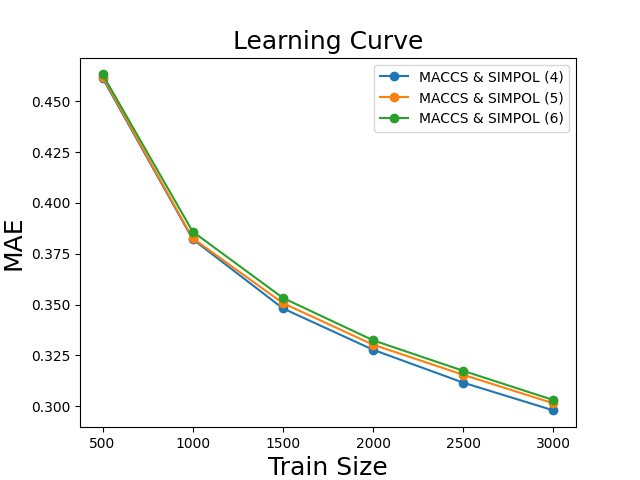
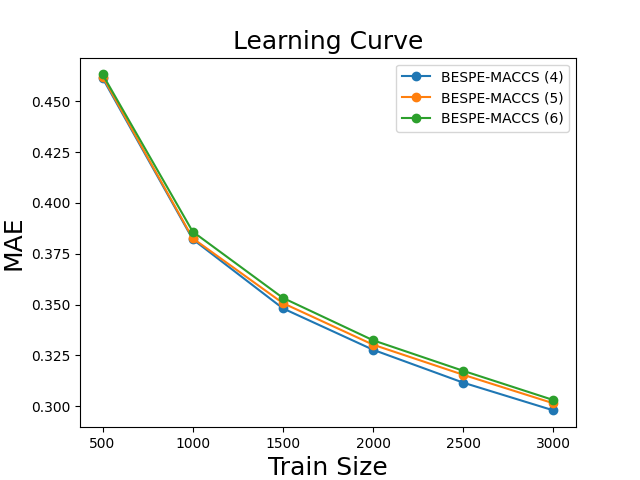
plotting changes

Changed region(s): [[0.5938, 0.125, 0.875, 0.2812]]

diff --git a/CODE_2/data/unused_keys_geckoq.tex b/CODE_2/data/unused_keys_geckoq.tex
@@ -1,0 +1,74 @@
+\begin{tabular}{ll}
+\toprule
+ & Question \\
+key &  \\
+\midrule
+0 &  empty key \\
+1 &  Are there isotopes  \\
+2 &  Is there an atom with an atomic number above 103?   \\
+3 &  Are there atoms belonging to groups IVa, Va, Via, rows 4-6?  \\
+4 &  Is there an actinide in the molecule?   \\
+5 &  Does the molecule contain atoms from group IIIB or IVB?  \\
+6 &  Does the molecule contain lanthanides?  \\
+7 &  Does the molecule contain atoms from group VB, VIB or VIIB?  \\
+8 &  Is there a heteroatom at a 3 bond distance from a ring fragment?   \\
+9 &  Is there an atom from Group VIII?  \\
+10 &  Is there an atom from Group IIa?  \\
+12 &  Is there an atom from Group IB, IIB?  \\
+13 &  Does the molecule contain a hydroxylamine-derivative?  \\
+14 &  Does the molecule have a disulfide bond?   \\
+17 &  Does the molecule have 2 triplebonded carbons?   \\
+18 &  Is there an atom from Group VIII?  \\
+20 &  Is there an silicon atom?  \\
+25 &  Does the molecule contain an methanetriamine? FRAGMENT GROUP  \\
+26 &  Is there a double-bonded carbon that has three ring bond?   \\
+27 &  Is there an iodine atom?  \\
+29 &  Is there an phosphor atom?  \\
+30 &  Is there a heteroatom at bonded to four atoms three of which are carbons?   \\
+31 &  Does the molecule have any heteroatom bonded to a halogen   \\
+32 &  Does the molecule have a aminothiomethane group?   \\
+33 &  Is there any bond between nitrogen and sulphur?   \\
+35 &  Is there alkali metal?  \\
+36 &  Is there a sulphur containing heterocycle?  \\
+37 &  Does the molecule have a diaminocarbinol group?   \\
+38 &  Does the molecule have a diaminoethyl group?   \\
+39 &  Is there a sulphur atom bonded to three oxygens?   \\
+40 &  Does the molecule have a thioperoxide (single bond between a sulphur and oxygen atom)?  \\
+41 &  Does the molecule have a cyano group?   \\
+42 &  Is there an flourine atom?  \\
+44 &  Are there any atoms other than H, C, N, O, Si, P, S, F, Cl, Br, and I?  \\
+46 &  Is there a bromine atom?   \\
+47 &  Is there sulphur separated by two bonds to nitrogen?   \\
+51 &  Is there a carbon bonded to sulphur to an oxygen?   \\
+52 &  Are there two nitrogens bonded together?   \\
+55 &  Is there a sulphur bonded to two oxygens?   \\
+58 &  Is there a sulphur atom bonded to two heteroatoms?   \\
+59 &  Is the molecule lacking sulphur atoms?   \\
+60 &  Does the molecule contain a double bond between a sulphur and oxygen atom?   \\
+61 &  Is there a sulphur atom bonded to three atoms?   \\
+62 &  Are there two rings separated by a bond?   \\
+64 &  Is there a carbon connected to an atom in a ring?   \\
+65 &  Is there an aromatic nitrogen or carbon?   \\
+67 &  Is there a heteroatom bonded to sulphur atom?   \\
+68 &  Are there two bonded heteroatoms, both bonded to a hydrogen atom?  \\
+73 &  Does the molecule have a double bonded sulphur?   \\
+75 &  Is there a nitrogen in a ring that is connected to an atom outside the ring?   \\
+77 &  Are there two nitrogens bonded to the same atom?   \\
+78 &  Is there a nitrogen double bonded to a carbon?  \\
+81 &  Is there an atom with three bonds, one of which is connected to a sulphur atom?   \\
+84 &  Does the molecule have a primary amine?   \\
+85 &  Is there a nitrogen bonded to three carbons?   \\
+86 &  Are there two methylene groups bonded to the same heteroatom?   \\
+87 &  Is there a halide bonded to a ring?   \\
+88 &  Is there a sulphur atom?   \\
+93 &  Is there a heteroatom bonded to a methyl group?   \\
+100 &  Is there a methylene bridge directly connected to a nitrogen atom?   \\
+103 &  Is there a chlorine atom?   \\
+107 &  Is there and atom with three bonds, one of which is to a halogen?   \\
+121 &  Is there a nitrogen containing ring?   \\
+125 &  Is there more than one aromatic ring?   \\
+134 &  Is there a halogen atom?  \\
+151 &  Is there a nitrogen bonded to at least one hydrogen?   \\
+166 &  Does the molecule have more than one fragments?  \\
+\bottomrule
+\end{tabular}

diff --git a/CODE_2/results_preprocessing.py b/CODE_2/results_preprocessing.py
@@ -123,15 +123,23 @@ def main():
         fig, ax = plt.subplots()
         data = pd.read_csv(f'data/KRR_output/maccs only/results/mean_MACCS_{target}.csv')
         ax.plot(data['Train_sizes'], data['Test_MAE'], marker='o')
+        min_val = 1
+        max_val = 0
         for folder in folders[0:5]:
             filepath = path.relpath(f'data/KRR_output/{folder}/results')
             input_file = path.join(filepath,\
                                 f'mean_MACCS_with_simpol_{target}.csv')
             data = pd.read_csv(input_file)
             ax.plot(data['Train_sizes'], data['Test_MAE'], marker='o')
-        legends = ['MACCS fingerprint', 'SIMPOL fingerprint', 'MACCS & SIMPOL (1)', \
-                'MACCS & SIMPOL (2)', 'MACCS & SIMPOL (3)', 'MACCS & SIMPOL (4)']
-        ax.legend(legends)  
+            max_val = max(np.max(data['Test_MAE'].values), max_val)
+            min_val = min(np.min(data['Test_MAE'].values), min_val)
+        min_val -= 0.05
+        max_val += 0.1
+        plt.grid(True, axis='y', linestyle='--')
+        legends = ['MACCS only', 'BESPE (6) only', 'BESPE-MACCS (1)', \
+                'BESPE-MACCS (2)', 'BESPE-MACCS (3)', 'BESPE-MACCS (4)']
+        ax.legend(legends)
+        plt.ylim([min_val, max_val])
         ax.set_xlabel('Train Size', fontsize=18)
         ax.set_ylabel('MAE', fontsize=18)
         plt.title('Learning Curve', fontsize=18)
@@ -147,7 +155,7 @@ def main():
                                 f'mean_MACCS_with_simpol_{target}.csv')
             data = pd.read_csv(input_file)
             ax.plot(data['Train_sizes'], data['Test_MAE'], marker='o')
-        legends = ['MACCS & SIMPOL (4)', 'MACCS & SIMPOL (5)', 'MACCS & SIMPOL (6)']
+        legends = ['BESPE-MACCS (4)', 'BESPE-MACCS (5)', 'BESPE-MACCS (6)']
         ax.legend(legends)  
         ax.set_xlabel('Train Size', fontsize=18)
         ax.set_ylabel('MAE', fontsize=18)
@@ -161,24 +169,30 @@ def main():
         folders_geckoq = [
             'simpol with encodings',\
             'maccs and simpol with multiple groups and carbon numbers', \
-            'maccs and norings simpol with binary encodings', \
-            'maccs and norings simpol with binary encodings and four plus groups', \
-            'maccs and simpol final model']
+            'maccs and norings simpol with binary encodings']
     # Plot learning curve       
     fig, ax = plt.subplots()
     data = pd.read_csv(f'data/KRR_output/maccs only/results/mean_MACCS_geckoq_log_p_sat.csv')
     ax.plot(data['Train_sizes'], data['Test_MAE'], marker='o')
+    min_val = 1
+    max_val = 0
     for folder in folders_geckoq:
         filepath = path.relpath(f'data/KRR_output/{folder}/results')
         input_file = path.join(filepath,\
                             f'mean_MACCS_with_simpol_geckoq_log_p_sat.csv')
         data = pd.read_csv(input_file)
         ax.plot(data['Train_sizes'], data['Test_MAE'], marker='o')
-    legends = ['MACCS fingerprint', 'SIMPOL fingerprint', 'MACCS & SIMPOL (3)',
-            'MACCS & SIMPOL (4)', 'MACCS & SIMPOL (5)', 'MACCS & SIMPOL (6)']
+        max_val = max(np.max(data['Test_MAE'].values), max_val)
+        min_val = min(np.min(data['Test_MAE'].values), min_val)
+    min_val -= 0.1
+    max_val += 0.45
+    legends = ['MACCS only', 'BESPE (6) only', 'BESPE-MACCS (3)',
+            'BESPE-MACCS (4)']
     ax.legend(legends)  
     ax.set_xlabel('Train Size', fontsize=18)
     ax.set_ylabel('MAE', fontsize=18)
+    plt.grid(True, axis='y', linestyle='--')
+    plt.ylim([min_val, max_val])
     plt.title('Learning Curve', fontsize=18)
     plt.close()
     outpath = path.relpath(f'data/plots/final')

diff --git a/CODE_2/SMARTSpatts.tex b/CODE_2/SMARTSpatts.tex
@@ -1,0 +1,46 @@
+\begin{tabular}{ll}
+\toprule
+Pattern name & SMARTS pattern \\
+\midrule
+zeroeth group & eval 1 \\
+amine, primary & [C][NX3;H2;!\$(NC=O)]([H])[H] \\
+amine, secondary & [C][NX3;H;!\$(NC=O)]([C])[H] \\
+amine, tertiary & [C][NX3;H0;!\$(NC=O);!\$(N=O)]([C])[C] \\
+alkane CH & [CX4][H] \\
+alkene CH & [CX3;\$(C=C)][H] \\
+aromatic CH & [c][H] \\
+carbonyl & [\#6,\#1][CX3](=O)[\#6,\#1] \\
+hydroxyl (alkyl) & [C;!\$(C=O)][OX2H][H] \\
+carboxylic acid & [CX3](=O)[OX2H][H] \\
+ester, all & [CX3H1,CX3](=O)[OX2H0][\#6] \\
+ester & {ester, all}-{nitroester} \\
+ether & [OD2]([C;!R;!\$(C=O)])[C;!R;!\$(C=O)] \\
+peroxide & [\#6][OD2][OD2,OD1][\#6] \\
+nitro & [\#6][\$([NX3](=O)=O),\$([NX3+](=O)[O-])](~[O])(~[O]) \\
+aromatic hydroxyl & [c;!\$(C=O)][OX2H][H] \\
+hydroperoxide & [\#6;!\$(C=O)][OD2][OX2H,OD1][\#1] \\
+amide & [CX3](=O)[NX3;!\$(N=O)]([\#6,\#1])[\#6,\#1] \\
+nitrate & [\#6][O][NX3;\$([NX3](=[OX1])(=[OX1])O),\$([NX3+]([OX1-])(=[OX1])O)](~[O])(~[O]) \\
+organosulfate & [\#6][O][SX4;\$([SX4](=O)(=O)(O)O),\$([SX4+2]([O-])([O-])(O)O)](~[O])(~[O])(~[O]) \\
+carbonylperoxynitrate & [C](=O)OO[N](~O)~[O] \\
+ketone & [CX3;\$(C([\#6])(=[O])[\#6])](=[O;!\$([O][O])]) \\
+aldehyde & [CX3;\$(C([\#6,\#1])(=[O])[\#6,\#1])]([\#6,\#1])(=[O;!\$([O][O])])[H] \\
+amide, primary & [CX3;\$(C(=[O])[NX3;!\$(N=O)])](=[O])[N]([\#1])[\#1] \\
+amide, secondary & [CX3;\$(C(=[O])[NX3;!\$(N=O)]([\#6])[\#1])](=[O])[N][\#1] \\
+amide, tertiary & [CX3;\$(C(=[O])[NX3;!\$(N=O)]([\#6])[\#6])](=[O])[N] \\
+carbonylperoxyacid & C(=O)O[O][H] \\
+peroxy nitrate & [\#6][O;!\$(OOC(=O))][O;!\$(OOC(=O))][N](~O)~[O] \\
+carbon number & [\#6] \\
+ether, aromatic & c~[O,o]~[c,C\&!\$(C=O)] \\
+ether (alicyclic) & [OD2;R]([C;!\$(C=O);R])[C;!\$(C=O);R] \\
+amine, aromatic & [N;!\$(NC=O);!\$(N=O);\$(Na)] \\
+nitroester & [\#6][OX2H0][CX3,CX3H1](=O)[C;\$(C[N](~[O])~[O]),\$(CC[N](~[O])~[O]),\$(CCC[N](~[O])~[O]),\$(CCCC[N](~[O])~[O]),\$(CCCCC[N](~[O])~[O])] \\
+nitrophenol & userdef.count_nitrophenols(molecule,'{aromatic hydroxyl},'{nitro}) \\
+C=C-C=O in non-aromatic ring & [\$(C=CC=O);A;R] \\
+C=C (non-aromatic) & C=C \\
+non-aromatic ring & eval userdef.count_nonaromatic_rings(molecule) \\
+aromatic ring & eval userdef.count_aromatic_rings(molecule) \\
+nC-OHside-a & [C;\$(C[NX3][CH,CC](=O)),\$(CC[NX3][CH,CC](=O)),\$(CCC[NX3][CH,CC](=O)),\$(CCCC[NX3][CH,CC](=O)),\$(CCCCC[NX3][CH,CC](=O))] \\
+carbon number on the acid-side of an amide (asa) & {carbon number}-{nC-OHside-a}-1 if ({amide, primary}+{amide, secondary}+{amide, tertiary} > 0) else 0 \\
+\bottomrule
+\end{tabular}

diff --git a/CODE_2/testing.py b/CODE_2/testing.py
@@ -6,7 +6,11 @@ from funs import *
 import pandas as pd
 import numpy as np
 
-data = pd.read_csv('data/mins_and_maxes.csv', index_col='Compound')
-data = data[['Counts', 'Min', 'Max', 'Mean', 'Weighted_mean']]
-print(data)
-data.to_latex('data/mins_and_maxes.tex', float_format="%.3f")
+data = pd.read_csv('SIMPOLgroups.csv')
+#print(data)
+
+out = pd.DataFrame()
+out.insert(0, 'Pattern name', data['substructure'])
+out.insert(1,'SMARTS pattern', data['pattern'])
+
+out.to_latex('SMARTSpatts.tex', index=False)
